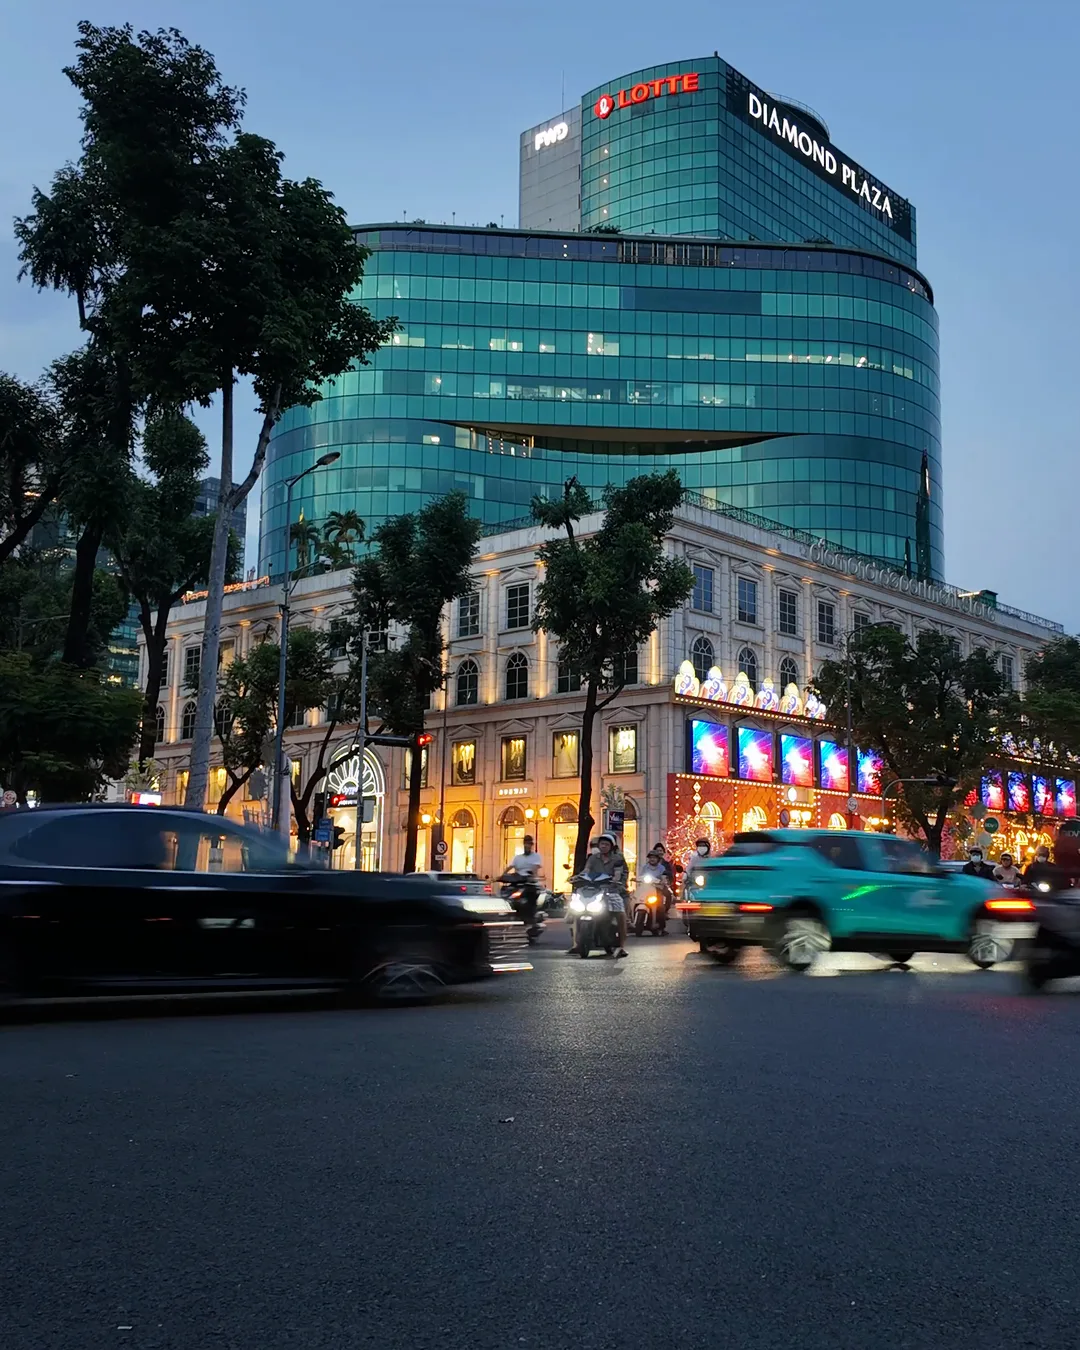
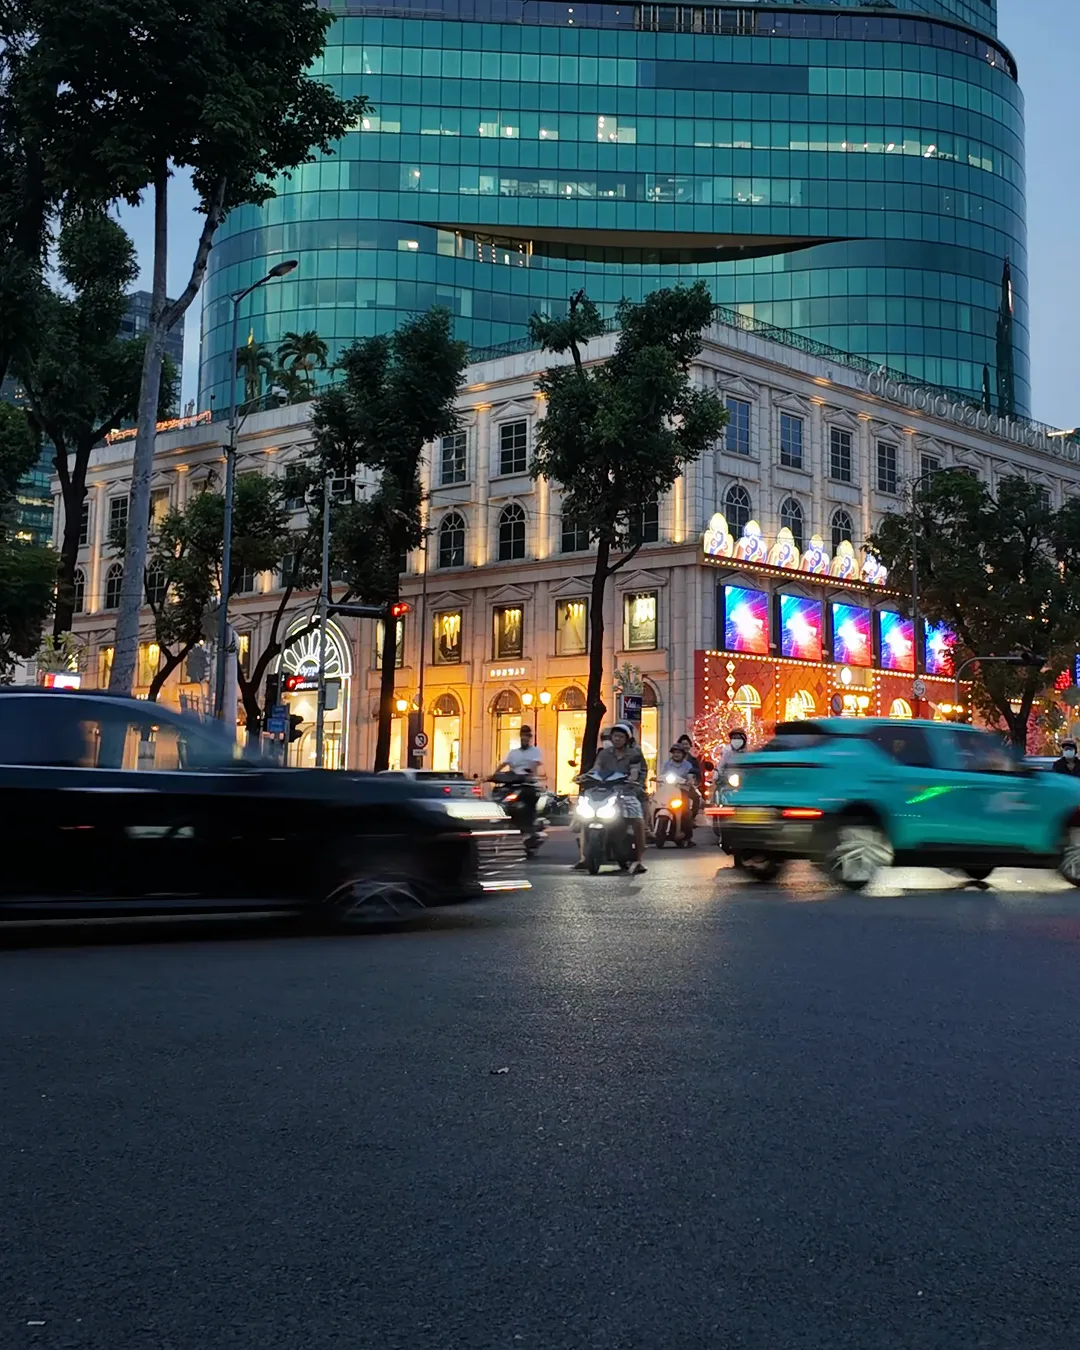
Landing: brand signs on the tower kept out of the hero video and the How it works still; DEVLOG entry for the review fixes

diff --git a/src/lp/lp.css b/src/lp/lp.css
@@ -54,6 +54,8 @@ html[data-route="landing"]:has(.lp), html[data-route="landing"]:has(.lp) body { 
 .lp-frame { position: absolute; left: 50%; top: calc(50% - var(--e) * 5vh); width: calc(100vw - (100vw - var(--fw)) * var(--e)); height: calc(100vh - (100vh - var(--fh)) * var(--e)); transform: translate(-50%, -50%); border-radius: calc(var(--e) * 30px); overflow: hidden; background: #0d1626; }
 .lp-pic, .lp-pic img, .lp-pic video { position: absolute; inset: 0; width: 100%; height: 100%; }
 .lp-pic img, .lp-pic video { object-fit: cover; object-position: 40% 50%; }
+/* the hero video is enlarged from its lower edge so the brand signs on top of the tower (Lotte, FWD, Diamond Plaza) stay out of frame */
+.lp-hero .lp-pic :is(video, img), .lp-fr img { transform-origin: 40% 100%; transform: scale(1.2); }
 .lp-hero-shade { position: absolute; inset: 0; opacity: calc(1 - var(--e) * .85); background:
   linear-gradient(to bottom, rgba(22, 35, 59, .34) 0%, rgba(22, 35, 59, 0) 36%),
   linear-gradient(to top, rgba(8, 13, 23, .7) 0%, rgba(8, 13, 23, 0) 62%),

diff --git a/DEVLOG.md b/DEVLOG.md
@@ -234,6 +234,7 @@ The contract, API and script files first appear in `04cfd1c`; `contracts/` and `
   - Landing and app clean-up (5 Nov): no announcement bar (the "unaudited" note stays in Honest limits); the hero photo was exported again from the 2499 px original with light noise reduction and sharpening (no change of tone; `hero-2400.webp` 579 KB, `hero-1600.webp` 277 KB, no metadata), and the closing band and the How it works picture now load the 2400 px file where they need it (a 640 px sunset photo tried for the closing band was dropped as too soft); the How it works picture is cropped to the bridge and river so the orange road no longer shows while it moves; the app's "Home" hover label on the logo and the breadcrumb home icon is gone.
   - Video hero (5 Nov): the hero is now a muted street video, Pexels video 15170398 (Pexels licence, evening traffic by Diamond Plaza, Ho Chi Minh City; 4K, tripod), trimmed to a 5.7 s loop with a 1 s crossfade so the cut does not show, no audio, no metadata (`city-1920.mp4` 2.6 MB, `city-1280.mp4` 1.6 MB for screens up to 900 px, posters 240 KB and 70 KB). It pauses when scrolled off screen and is replaced by its poster under reduced motion (checked in Chrome: playing on desktop and phone, paused off screen, still image with reduced motion). The nested frames use the poster; How it works is a flat navy panel. Credit in the footer, README and DoraHacks text. Other clips and photos offered for this were not used because their source could not be shown (one carried a newspaper watermark).
   - Live check (5 Nov, by the author): a new invoice was minted through a wallet connected with Privy, and after F5 the wallet came back in 1-2 s. During that wait the app now says "Reconnecting…" (top button and sidebar) instead of "Connect wallet"; it only does so for a browser that connected through Privy before, and gives up after 8 s (checked: 1.6 s with no wallet to restore; a first visit shows "Connect wallet" at once). Light theme fixes from the same check: the "?" term popover (dark box with dark text) and the Profile tiles, ring and badges.
+  - Review fixes (5 Nov): the gas tip on Trade and the other notices (no-gas, network bar, banners, checks, empty states) were still drawn with the old dark gradient in the light theme; they are flat now in both themes, and the light-theme scan also checks gradients. The hero video is enlarged from its lower edge and the How it works still was cut again, so the brand signs on the tower (Lotte, FWD, Diamond Plaza) are out of frame; the video files carry no GPS or other metadata (only the encoder name). Verify shows the receipts read from the contract as quick picks while nothing is looked up. The landing's test counter ends at 84, the same as `npm test`, the README, the DoraHacks text and the deck.
   - Pictures below the hero (5 Nov): How it works shows a portrait still cut from the hero video (Diamond Plaza at dusk; the receipt card covers the road), and the closing band is "Flower bicycle on a vibrant street scene" by Tuan Phan (Pexels photo 37321262, Pexels licence; exported at 960/1600/2400 px, no metadata). The unused hero photo sizes were removed; the 1600 px Dragon Bridge photo stays for the menu previews.
   - Test count after the redesign: 84 (was 81 before `series.ts`) (one new test for the singular share unit); README, DoraHacks text and slide 7 carry 81.
   - Wallet restore after a reload: see the commit before the branch (ask the remembered wallet again after a failed or empty first answer and when the tab regains focus).
